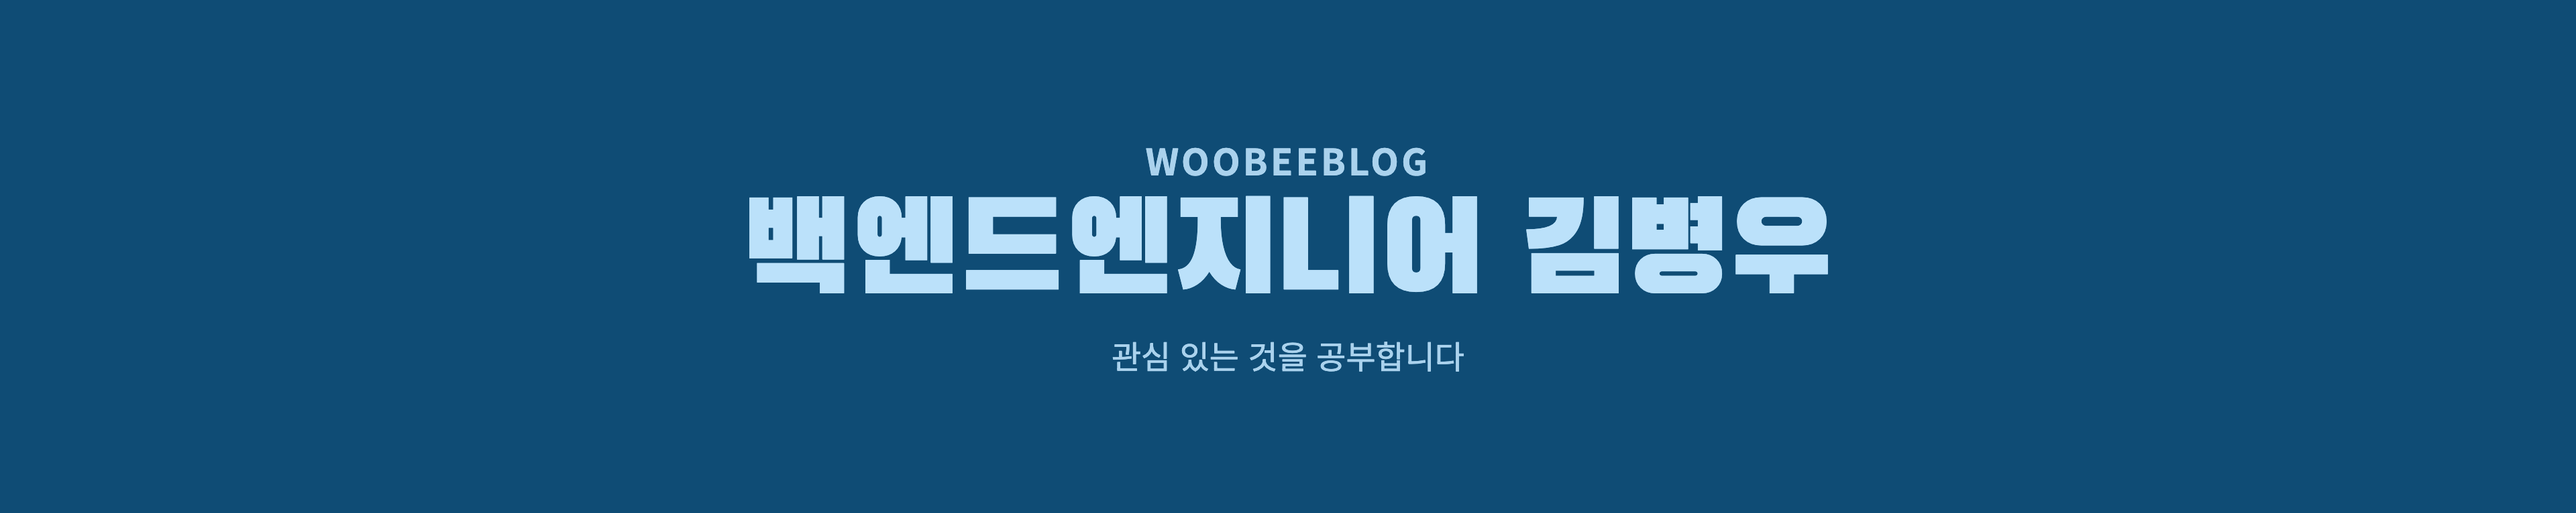
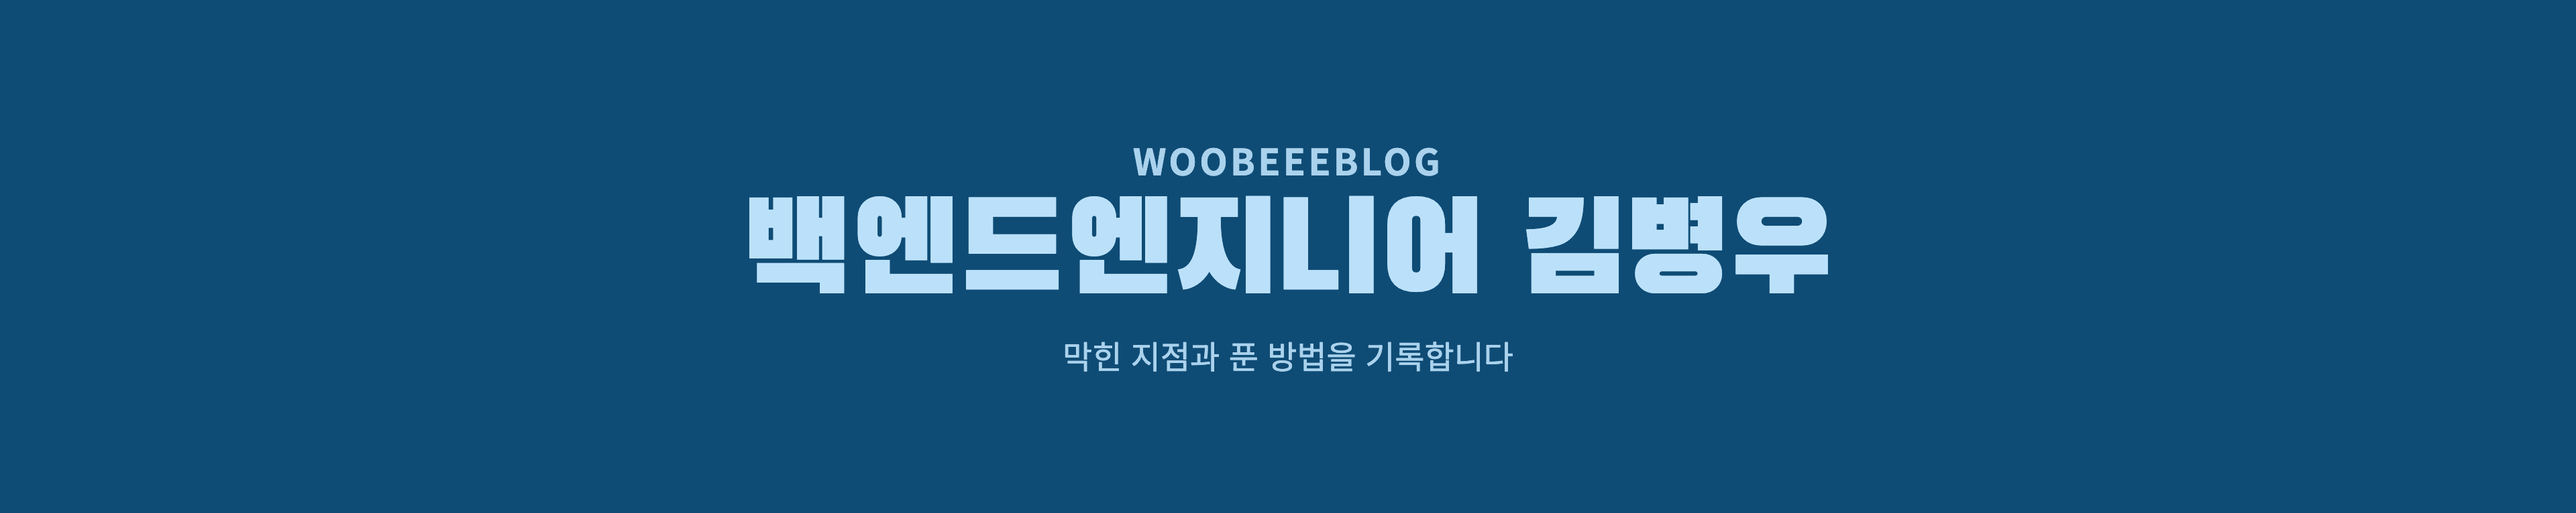
chore(front): 홈 배너 문구 교체 — WOOBEEEBLOG / 막힌 지점과 푼 방법을 기록합니다
라벨 오타(WOOBEEBLOG → WOOBEEEBLOG, 도메인 woobeee.com 과 일치)와 부제를 함께 고쳤다.
부제는 "관심 있는 것을 공부합니다" → "막힌 지점과 푼 방법을 기록합니다".

- scripts/home-banner-{light,dark}.html: 배너 원본
- front/components/home/home-banner.tsx: 이미지 404 폴백 CSS 배너도 같은 문구로
- front/public/home-banner-{light,dark}.png: render-banners.sh 재렌더 (3840x766 유지)
- docs/front/PRD.md: 배너 문구를 적어둔 줄

검증: vitest 21 files / 519 tests 통과. npm test 의 tsc 단계는 .next/types 에 남은
삭제된 라우트(app/blog/page) 참조로 실패하는데, 이 변경과 무관한 기존 문제다.

Changed region(s): [[0.4375, 0.2702, 0.5625, 0.3603], [0.4062, 0.6606, 0.5938, 0.7206]]

diff --git a/scripts/home-banner-dark.html b/scripts/home-banner-dark.html
@@ -7,7 +7,7 @@ body{background:#0F4C75;display:flex;flex-direction:column;align-items:center;ju
 .title{font-family:"Black Han Sans","Noto Sans KR",sans-serif;font-size:190px;line-height:1.05;margin:18px 0 22px;letter-spacing:-0.01em}
 .sub{font-weight:400;color:#BBE1FA;opacity:.9;font-size:48px;line-height:1}
 </style></head><body>
-<div class="label">WOOBEEBLOG</div>
+<div class="label">WOOBEEEBLOG</div>
 <div class="title">백엔드엔지니어 김병우</div>
-<div class="sub">관심 있는 것을 공부합니다</div>
+<div class="sub">막힌 지점과 푼 방법을 기록합니다</div>
 </body></html>

diff --git a/scripts/home-banner-light.html b/scripts/home-banner-light.html
@@ -7,7 +7,7 @@ body{background:#3F72AF;display:flex;flex-direction:column;align-items:center;ju
 .title{font-family:"Black Han Sans","Noto Sans KR",sans-serif;font-size:190px;line-height:1.05;margin:18px 0 22px;letter-spacing:-0.01em}
 .sub{font-weight:400;color:#DBE2EF;opacity:.9;font-size:48px;line-height:1}
 </style></head><body>
-<div class="label">WOOBEEBLOG</div>
+<div class="label">WOOBEEEBLOG</div>
 <div class="title">백엔드엔지니어 김병우</div>
-<div class="sub">관심 있는 것을 공부합니다</div>
+<div class="sub">막힌 지점과 푼 방법을 기록합니다</div>
 </body></html>

diff --git a/front/components/home/home-banner.tsx b/front/components/home/home-banner.tsx
@@ -11,9 +11,9 @@ import { useState } from "react"
  */
 export const BANNER_IMAGE_LIGHT = "/home-banner-light.png"
 export const BANNER_IMAGE_DARK = "/home-banner-dark.png"
-const LABEL = "WOOBEEBLOG"
+const LABEL = "WOOBEEEBLOG"
 const TITLE = "백엔드엔지니어 김병우"
-const SUBTITLE = "관심 있는 것을 공부합니다"
+const SUBTITLE = "막힌 지점과 푼 방법을 기록합니다"
 
 export default function HomeBanner() {
     const [imageMissing, setImageMissing] = useState(false)

diff --git a/docs/front/PRD.md b/docs/front/PRD.md
@@ -34,7 +34,7 @@ HOME(`/`) / RESUME(이력서 모달, 라우트 없음) / 일정(`/schedule`, 로
   절대 경로 하나이고, 거절한 것은 전부 홈으로 떨군다.
 
 ### 홈 — 기술블로그 (`/`)
-- 헤더 바로 아래 전체 폭 소개 배너(「WOOBEEBLOG / 백엔드엔지니어 김병우 / 관심 있는 것을 공부합니다」 — 테마 팔레트로 찍은 두 장 `public/home-banner-light.png`/`-dark.png` 를 `.dark` 로 고른다, 없으면 같은 문구의 CSS 배너). 장식용이고 클릭 동작은 없다. 이력서는 헤더 RESUME 탭이 모달로 연다 — PDF 뷰어 UI 없이 렌더된 이미지(`public/resume.png`, `scripts/render-resume.sh`) 한 장만(다운로드 링크 없음). 이력서 PDF 도 레포에 포함돼 있다(사용자 결정).
+- 헤더 바로 아래 전체 폭 소개 배너(「WOOBEEEBLOG / 백엔드엔지니어 김병우 / 막힌 지점과 푼 방법을 기록합니다」 — 테마 팔레트로 찍은 두 장 `public/home-banner-light.png`/`-dark.png` 를 `.dark` 로 고른다, 없으면 같은 문구의 CSS 배너). 장식용이고 클릭 동작은 없다. 이력서는 헤더 RESUME 탭이 모달로 연다 — PDF 뷰어 UI 없이 렌더된 이미지(`public/resume.png`, `scripts/render-resume.sh`) 한 장만(다운로드 링크 없음). 이력서 PDF 도 레포에 포함돼 있다(사용자 결정).
 - 우아한형제들 기술블로그의 두 열을 따른다(스펙 `docs/superpowers/specs/2026-09-09-blog-home-tags-design.md`). 맨 위에는 인기 태그 50개가 둥근 알약 줄로 가운데 정렬돼 있고(첫 칸 「-」 = 전체) 누르면 그 태그로 필터한다.
   왼쪽은 글을 세로로 — 날짜·카테고리명, 큰 제목, 작성자가 적은 설명(없으면 생략), 구분선, 무한 스크롤. 글 아래 태그 표시는 없다(태그는 상단 알약 줄·사이드바에서만). 이미지도 본문 요약도 없다.
   오른쪽(`lg` 이상)은 「카테고리」와 「태그」. 휴대폰 폭에서는 태그 줄과 사이드바를 숨기고 목록만 보이며, 「≡ 카테고리 · 태그」 버튼이 오른쪽 서랍으로 같은 내용을 연다. 카테고리는 헤더를 눌러 접고 펼치며 **기본 접힘**
